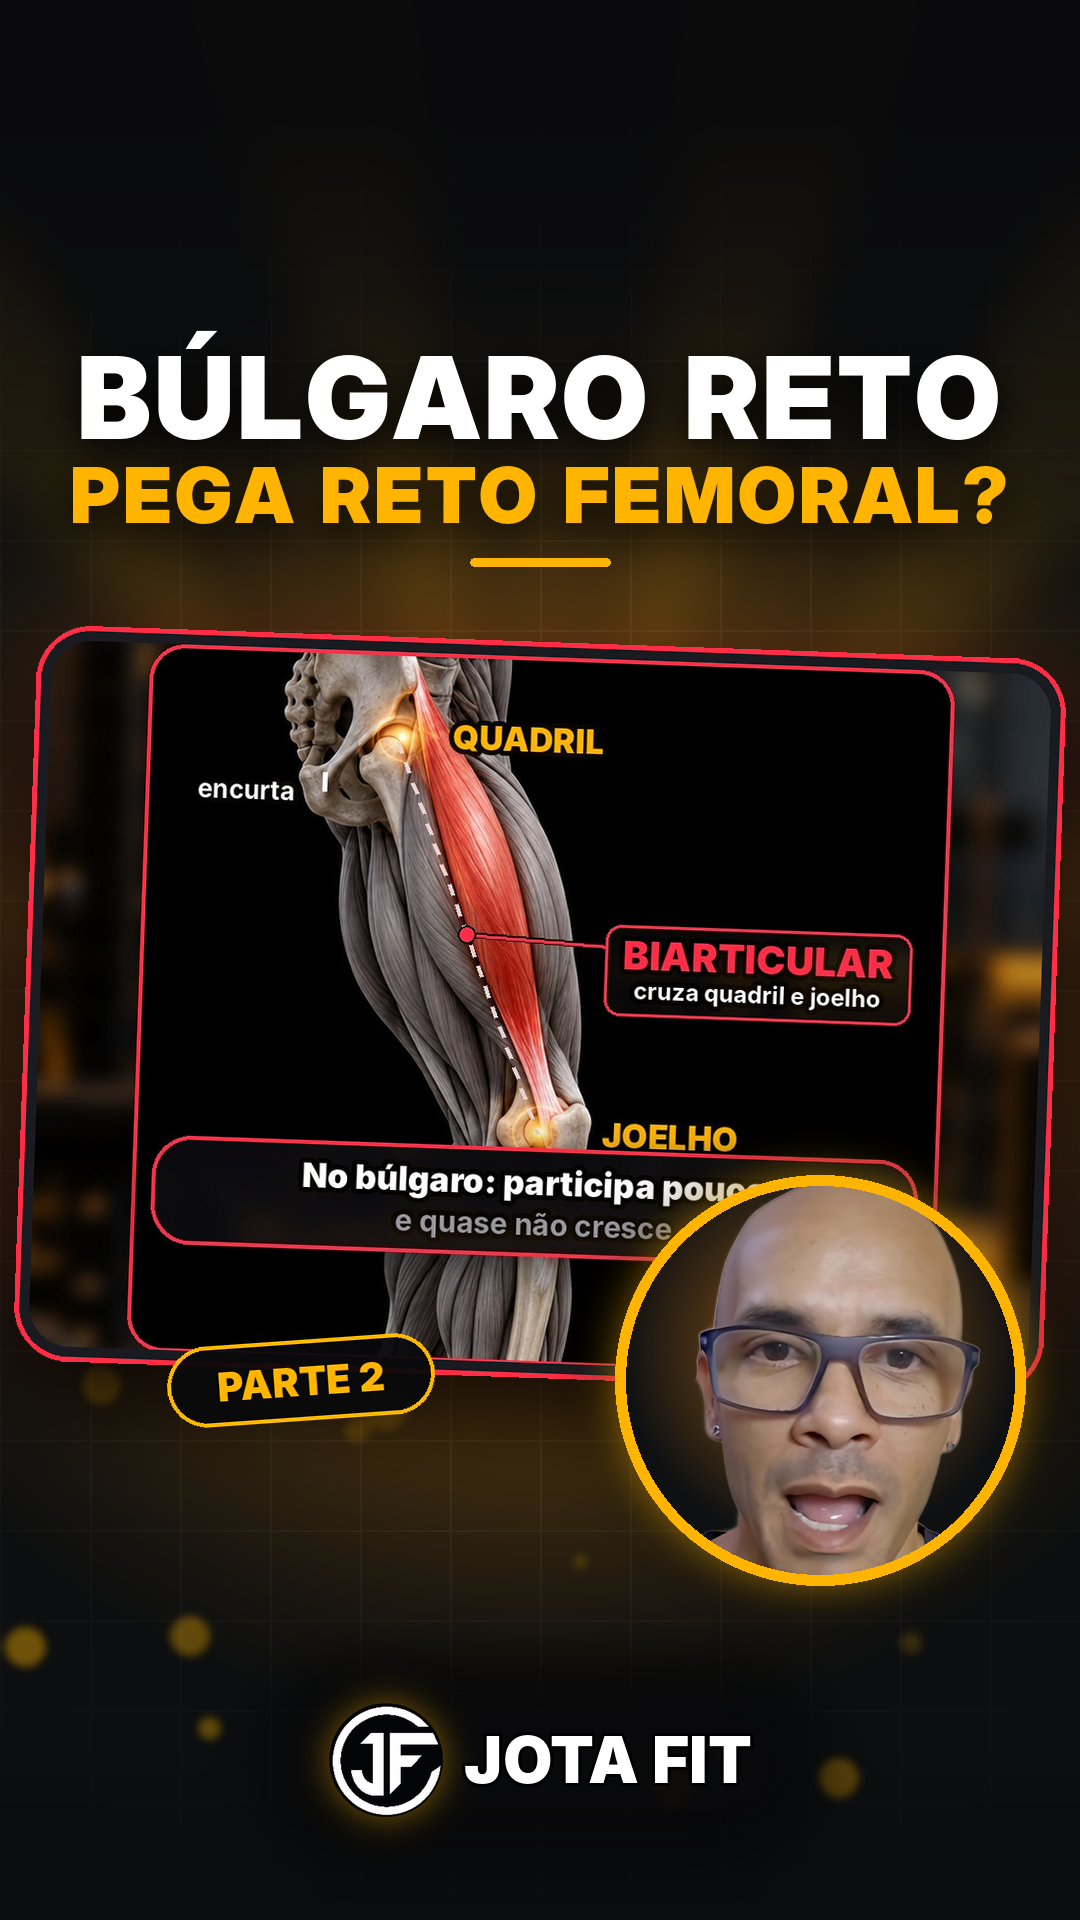
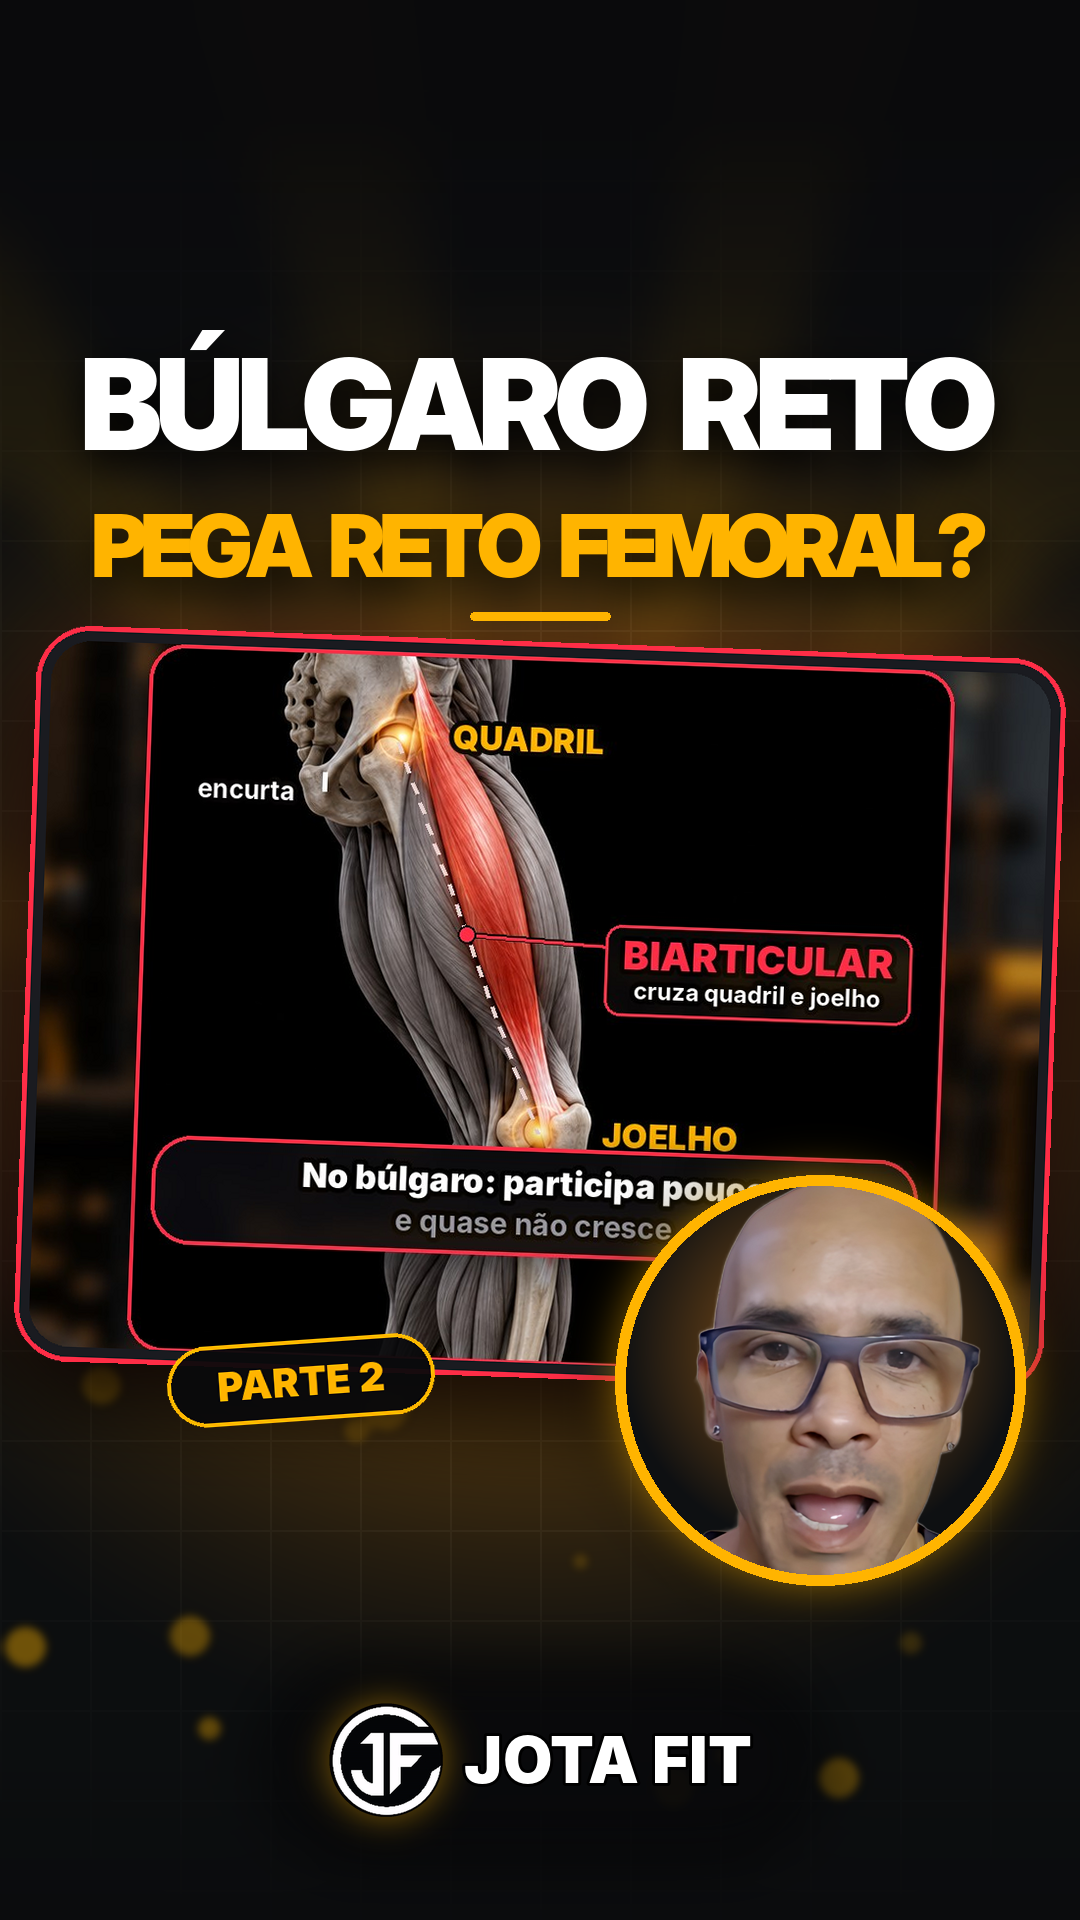
Capas: letras como antes, mais espaço entre palavras e entre as linhas do título
Claude-Session: https://claude.ai/code/session_01UuH9TpKCs4xLYma23g83NG

Changed region(s): [[0.0611, 0.1562, 0.9472, 0.3438]]

diff --git a/analises/capas/covers.py b/analises/capas/covers.py
@@ -65,17 +65,17 @@ def place(lay, im, cx, cy, shadow=170, glow=None, glow_a=120):
 
 def tight(text, font, fill, track):
     ws = [font.getlength(c) for c in text]
-    im = Image.new('RGBA', (int(sum(ws) + track * (len(text) - 1) + 40 + font.size * 0.08 * text.count(' ')), int(font.size * 1.4 + 40)), (0, 0, 0, 0)); d = ImageDraw.Draw(im); x = 20
-    for c, w in zip(text, ws): d.text((x, im.height / 2), c, font=font, fill=fill + (255,), anchor='lm'); x += w + track + (font.size * 0.08 if c == ' ' else 0)
+    im = Image.new('RGBA', (int(sum(ws) + track * (len(text) - 1) + 40 + font.size * 0.16 * text.count(' ')), int(font.size * 1.4 + 40)), (0, 0, 0, 0)); d = ImageDraw.Draw(im); x = 20
+    for c, w in zip(text, ws): d.text((x, im.height / 2), c, font=font, fill=fill + (255,), anchor='lm'); x += w + track + (font.size * 0.16 if c == ' ' else 0)
     return im.crop(im.getbbox())
 
 def headline(lay, l1, l2, y=330, s1=140, s2=132, maxw=920, **_):
     """Boxless: white line 1, amber line 2, soft depth shadow, thin accent rule."""
-    a = tight(l1, F('disp', s1), WHITE, 3)
-    if a.width > maxw: a = tight(l1, F('disp', int(s1 * maxw / a.width)), WHITE, 3)
-    b = tight(l2, F('disp', s2), YEL, 3)
-    if b.width > maxw: b = tight(l2, F('disp', int(s2 * maxw / b.width)), YEL, 3)
-    ax, bx = int(W / 2 - a.width / 2), int(W / 2 - b.width / 2); by = y + a.height + 26
+    a = tight(l1, F('disp', s1), WHITE, -7)
+    if a.width > maxw: a = tight(l1, F('disp', int(s1 * maxw / a.width)), WHITE, -7)
+    b = tight(l2, F('disp', s2), YEL, -7)
+    if b.width > maxw: b = tight(l2, F('disp', int(s2 * maxw / b.width)), YEL, -7)
+    ax, bx = int(W / 2 - a.width / 2), int(W / 2 - b.width / 2); by = y + a.height + 62
     sh = Image.new('RGBA', (W, H))
     for im, x, yy in ((a, ax, y), (b, bx, by)):
         t = Image.new('RGBA', im.size, (0, 0, 0, 0)); t.putalpha(im.split()[3].point(lambda v: v * 230 // 255)); sh.alpha_composite(t, (x, yy + 14))
